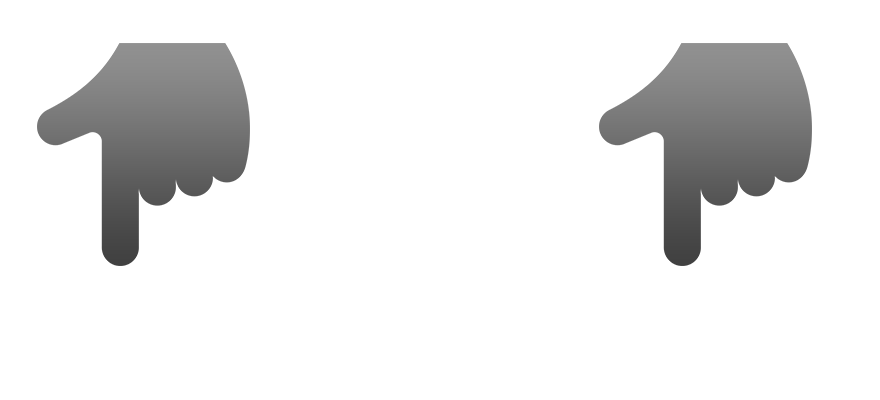
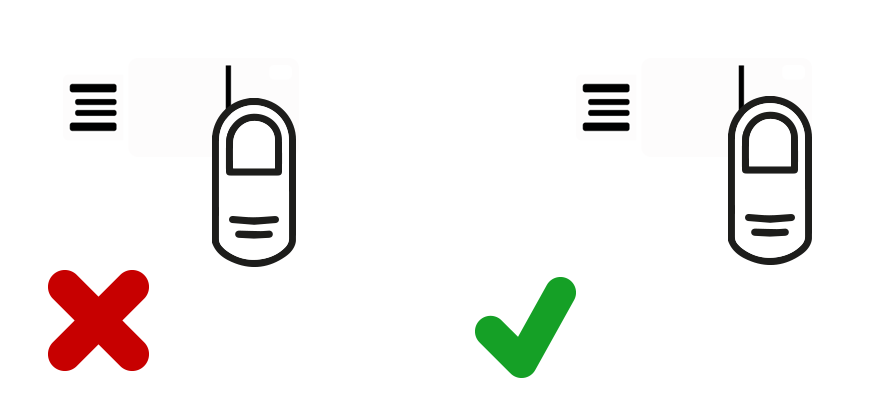
Better connect/unconnect handling

Changed region(s): [[0.0307, 0.09, 0.3375, 0.93], [0.6443, 0.09, 0.9205, 0.66], [0.5216, 0.69, 0.675, 0.96]]

diff --git a/src/qt/dbb_gui.cpp b/src/qt/dbb_gui.cpp
@@ -282,13 +282,13 @@ DBBDaemonGui::DBBDaemonGui(QWidget* parent) : QMainWindow(parent),
     resetInfos();
     //set status bar connection status
     uiUpdateDeviceState();
-    changeConnectedState(DBB::isConnectionOpen());
+    changeConnectedState(DBB::isConnectionOpen(), DBB::deviceAvailable());
 
 
     processCommand = false;
 
     //connect the device status update at very last point in init
-    connect(this, SIGNAL(deviceStateHasChanged(bool)), this, SLOT(changeConnectedState(bool)));
+    connect(this, SIGNAL(deviceStateHasChanged(bool, int)), this, SLOT(changeConnectedState(bool, int)));
 
     //create a local websocket server
     websocketServer = new WebsocketServer(WEBSOCKET_PORT, true);
@@ -314,7 +314,7 @@ void DBBDaemonGui::deviceIsReadyToInteract()
     deviceReadyToInteract = true;
 }
 
-void DBBDaemonGui::changeConnectedState(bool state)
+void DBBDaemonGui::changeConnectedState(bool state, int deviceType)
 {
     bool stateChanged = deviceConnected != state;
 
@@ -322,15 +322,14 @@ void DBBDaemonGui::changeConnectedState(bool state)
     if (upgradeFirmwareState && stateChanged)
     {
         deviceConnected = state;
-        if (state)
-        {
-            upgradeFirmwareWithFile(firmwareFileToUse);
-        }
+
+        if (deviceType == DBB::DBB_DEVICE_MODE_BOOTLOADER && state)
+                upgradeFirmwareWithFile(firmwareFileToUse);
         return;
     }
 
     if (stateChanged) {
-        if (state) {
+        if (state && deviceType == DBB::DBB_DEVICE_MODE_FIRMWARE) {
             deviceConnected = true;
             this->statusBarLabelLeft->setText("Device Connected");
             this->statusBarButton->setVisible(true);
@@ -611,6 +610,17 @@ void DBBDaemonGui::showModalInfo(const QString &info, int helpType)
         if (info.isNull() || info.size() == 0)
             ui->modalInfoLabel->setText(tr(""));
     }
+    else if (helpType == DBB_PROCESS_INFOLAYER_STYLE_REPLUG)
+    {
+        QIcon newIcon;
+        newIcon.addPixmap(QPixmap(":/icons/touchhelp_replug"), QIcon::Normal);
+        newIcon.addPixmap(QPixmap(":/icons/touchhelp_replug"), QIcon::Disabled);
+        ui->modalIcon->setIcon(newIcon);
+
+        if (info.isNull() || info.size() == 0)
+            ui->modalInfoLabel->setText(tr(""));
+    }
+
 
     // then a animation:
     QPropertyAnimation* animation = new QPropertyAnimation(slide, "pos");
@@ -1248,7 +1258,7 @@ void DBBDaemonGui::parseResponse(const UniValue& response, dbb_cmd_execution_sta
             upgradeFirmwareState = true;
             shouldLockBootloaderState = true;
             setFirmwareUpdateHID(true);
-            showModalInfo("<strong>Upgrading Firmware...</strong><br/><br/>Please unplung/plug your Digital Bitbox. Hold the touchbutton for serval seconds after you have pluged in your Digital Bitbox.", DBB_PROCESS_INFOLAYER_STYLE_TOUCHBUTTON);
+            showModalInfo("<strong>Upgrading Firmware...</strong><br/><br/>Please unplung/plug your Digital Bitbox. Hold the touchbutton for serval seconds after you have pluged in your Digital Bitbox.", DBB_PROCESS_INFOLAYER_STYLE_REPLUG);
         }
         else {
         }

diff --git a/src/dbb_app.cpp b/src/dbb_app.cpp
@@ -195,21 +195,28 @@ int main(int argc, char** argv)
         while(1)
         {
             //check devices
-            if (!DBB::isConnectionOpen())
+            if (!DBB::isConnectionOpen() || DBB::deviceAvailable() == DBB::DBB_DEVICE_NO_DEVICE)
             {
-                if ((firmwareUpdateHID) ? DBB::openConnection(HID_BL_BUF_SIZE_W, HID_BL_BUF_SIZE_R) : DBB::openConnection())
+                bool openSuccess = false;
+                enum DBB::dbb_device_mode deviceType = DBB::deviceAvailable();
+                if (DBB::deviceAvailable() == DBB::DBB_DEVICE_MODE_BOOTLOADER)
+                    openSuccess = DBB::openConnection(HID_BL_BUF_SIZE_W, HID_BL_BUF_SIZE_R);
+                else
+                    openSuccess = DBB::openConnection();
+
+                if (openSuccess)
                 {
 #ifdef DBB_ENABLE_QT
                 //TODO, check if this requires locking
                 if (widget)
-                    widget->deviceStateHasChanged(true);
+                    widget->deviceStateHasChanged(true, deviceType);
 #endif
                 }
                 else
                 {
 #ifdef DBB_ENABLE_QT
                 if (widget)
-                    widget->deviceStateHasChanged(false);
+                    widget->deviceStateHasChanged(false, DBB::DBB_DEVICE_NO_DEVICE);
 #endif
                 }
             }

diff --git a/src/qt/dbb_gui.h b/src/qt/dbb_gui.h
@@ -65,7 +65,8 @@ typedef enum DBB_ADDRESS_STYLE {
 
 typedef enum DBB_PROCESS_INFOLAYER_STYLE {
     DBB_PROCESS_INFOLAYER_STYLE_NO_INFO,
-    DBB_PROCESS_INFOLAYER_STYLE_TOUCHBUTTON
+    DBB_PROCESS_INFOLAYER_STYLE_TOUCHBUTTON,
+    DBB_PROCESS_INFOLAYER_STYLE_REPLUG
 } dbb_process_infolayer_style_t;
 
 class DBBDaemonGui : public QMainWindow
@@ -80,7 +81,7 @@ public slots:
 
 signals:
     //emited when the device state has chaned (connected / disconnected)
-    void deviceStateHasChanged(bool state);
+    void deviceStateHasChanged(bool state, int deviceType);
     //emited when the DBB could generate a xpub
     void XPubForCopayWalletIsAvailable(int walletIndex);
     //emited when the request xpub key is available
@@ -181,7 +182,7 @@ private:
 
 private slots:
     //!main callback when the device gets connected/disconnected
-    void changeConnectedState(bool state);
+    void changeConnectedState(bool state, int deviceType);
 
     //== UI ==
     //general proxy function to show an alert;

diff --git a/src/libdbb/dbb.cpp b/src/libdbb/dbb.cpp
@@ -68,23 +68,30 @@ static bool api_hid_close(void)
     return false;
 }
 
-bool isConnectionOpen()
+enum dbb_device_mode deviceAvailable()
 {
-    if (!HID_HANDLE)
-        return false;
-
     struct hid_device_info* devs, *cur_dev;
 
     devs = hid_enumerate(0x03eb, 0x2402);
     cur_dev = devs;
-    bool found = false;
+    enum dbb_device_mode foundType = DBB_DEVICE_NO_DEVICE;
     while (cur_dev) {
-        found = true;
+        std::wstring ws(cur_dev->manufacturer_string);
+        std::string str( ws.begin(), ws.end() );
+        if (str == "Digital Bitbox")
+            foundType = DBB_DEVICE_MODE_BOOTLOADER;
+        else
+            foundType = DBB_DEVICE_MODE_FIRMWARE;
         break;
     }
     hid_free_enumeration(devs);
+    
+    return foundType;
+}
 
-    return found;
+bool isConnectionOpen()
+{
+    return (HID_HANDLE != NULL);
 }
 
 bool openConnection(unsigned int writeBufSizeIn, unsigned int readBufSizeIn)

diff --git a/include/dbb.h b/include/dbb.h
@@ -14,6 +14,12 @@
 #define DBB_APP_LENGTH 229376 //flash size minus bootloader length
 
 namespace DBB {
+
+enum dbb_device_mode {
+    DBB_DEVICE_NO_DEVICE = 0,
+    DBB_DEVICE_MODE_BOOTLOADER,
+    DBB_DEVICE_MODE_FIRMWARE
+};
 //!open a connection to the digital bitbox device
 // retruns false if no connection could be made, keeps connection handling
 // internal
@@ -21,6 +27,9 @@ bool openConnection(unsigned int writeBufSizeIn = HID_REPORT_SIZE_DEFAULT, unsig
 
 //!close the connection to the dbb device
 bool closeConnection();
+
+//!check if a DBB device is available
+enum dbb_device_mode deviceAvailable();
 
 //!return true if a USBHID connection is open
 bool isConnectionOpen();

diff --git a/src/dbb_cli.cpp b/src/dbb_cli.cpp
@@ -171,6 +171,12 @@ int main(int argc, char* argv[])
         return 1;
     }
 
+    enum DBB::dbb_device_mode deviceMode = DBB::deviceAvailable();
+    if (userCmd == "firmware" && deviceMode != DBB::DBB_DEVICE_MODE_BOOTLOADER)
+    {
+        printf("Error: No Digital Bitbox is Bootloader-Mode detected\n");
+        return 1;
+    }
     bool connectRes = (userCmd == "firmware") ? DBB::openConnection(HID_BL_BUF_SIZE_W, HID_BL_BUF_SIZE_R) : DBB::openConnection();
 
     if (!connectRes)
